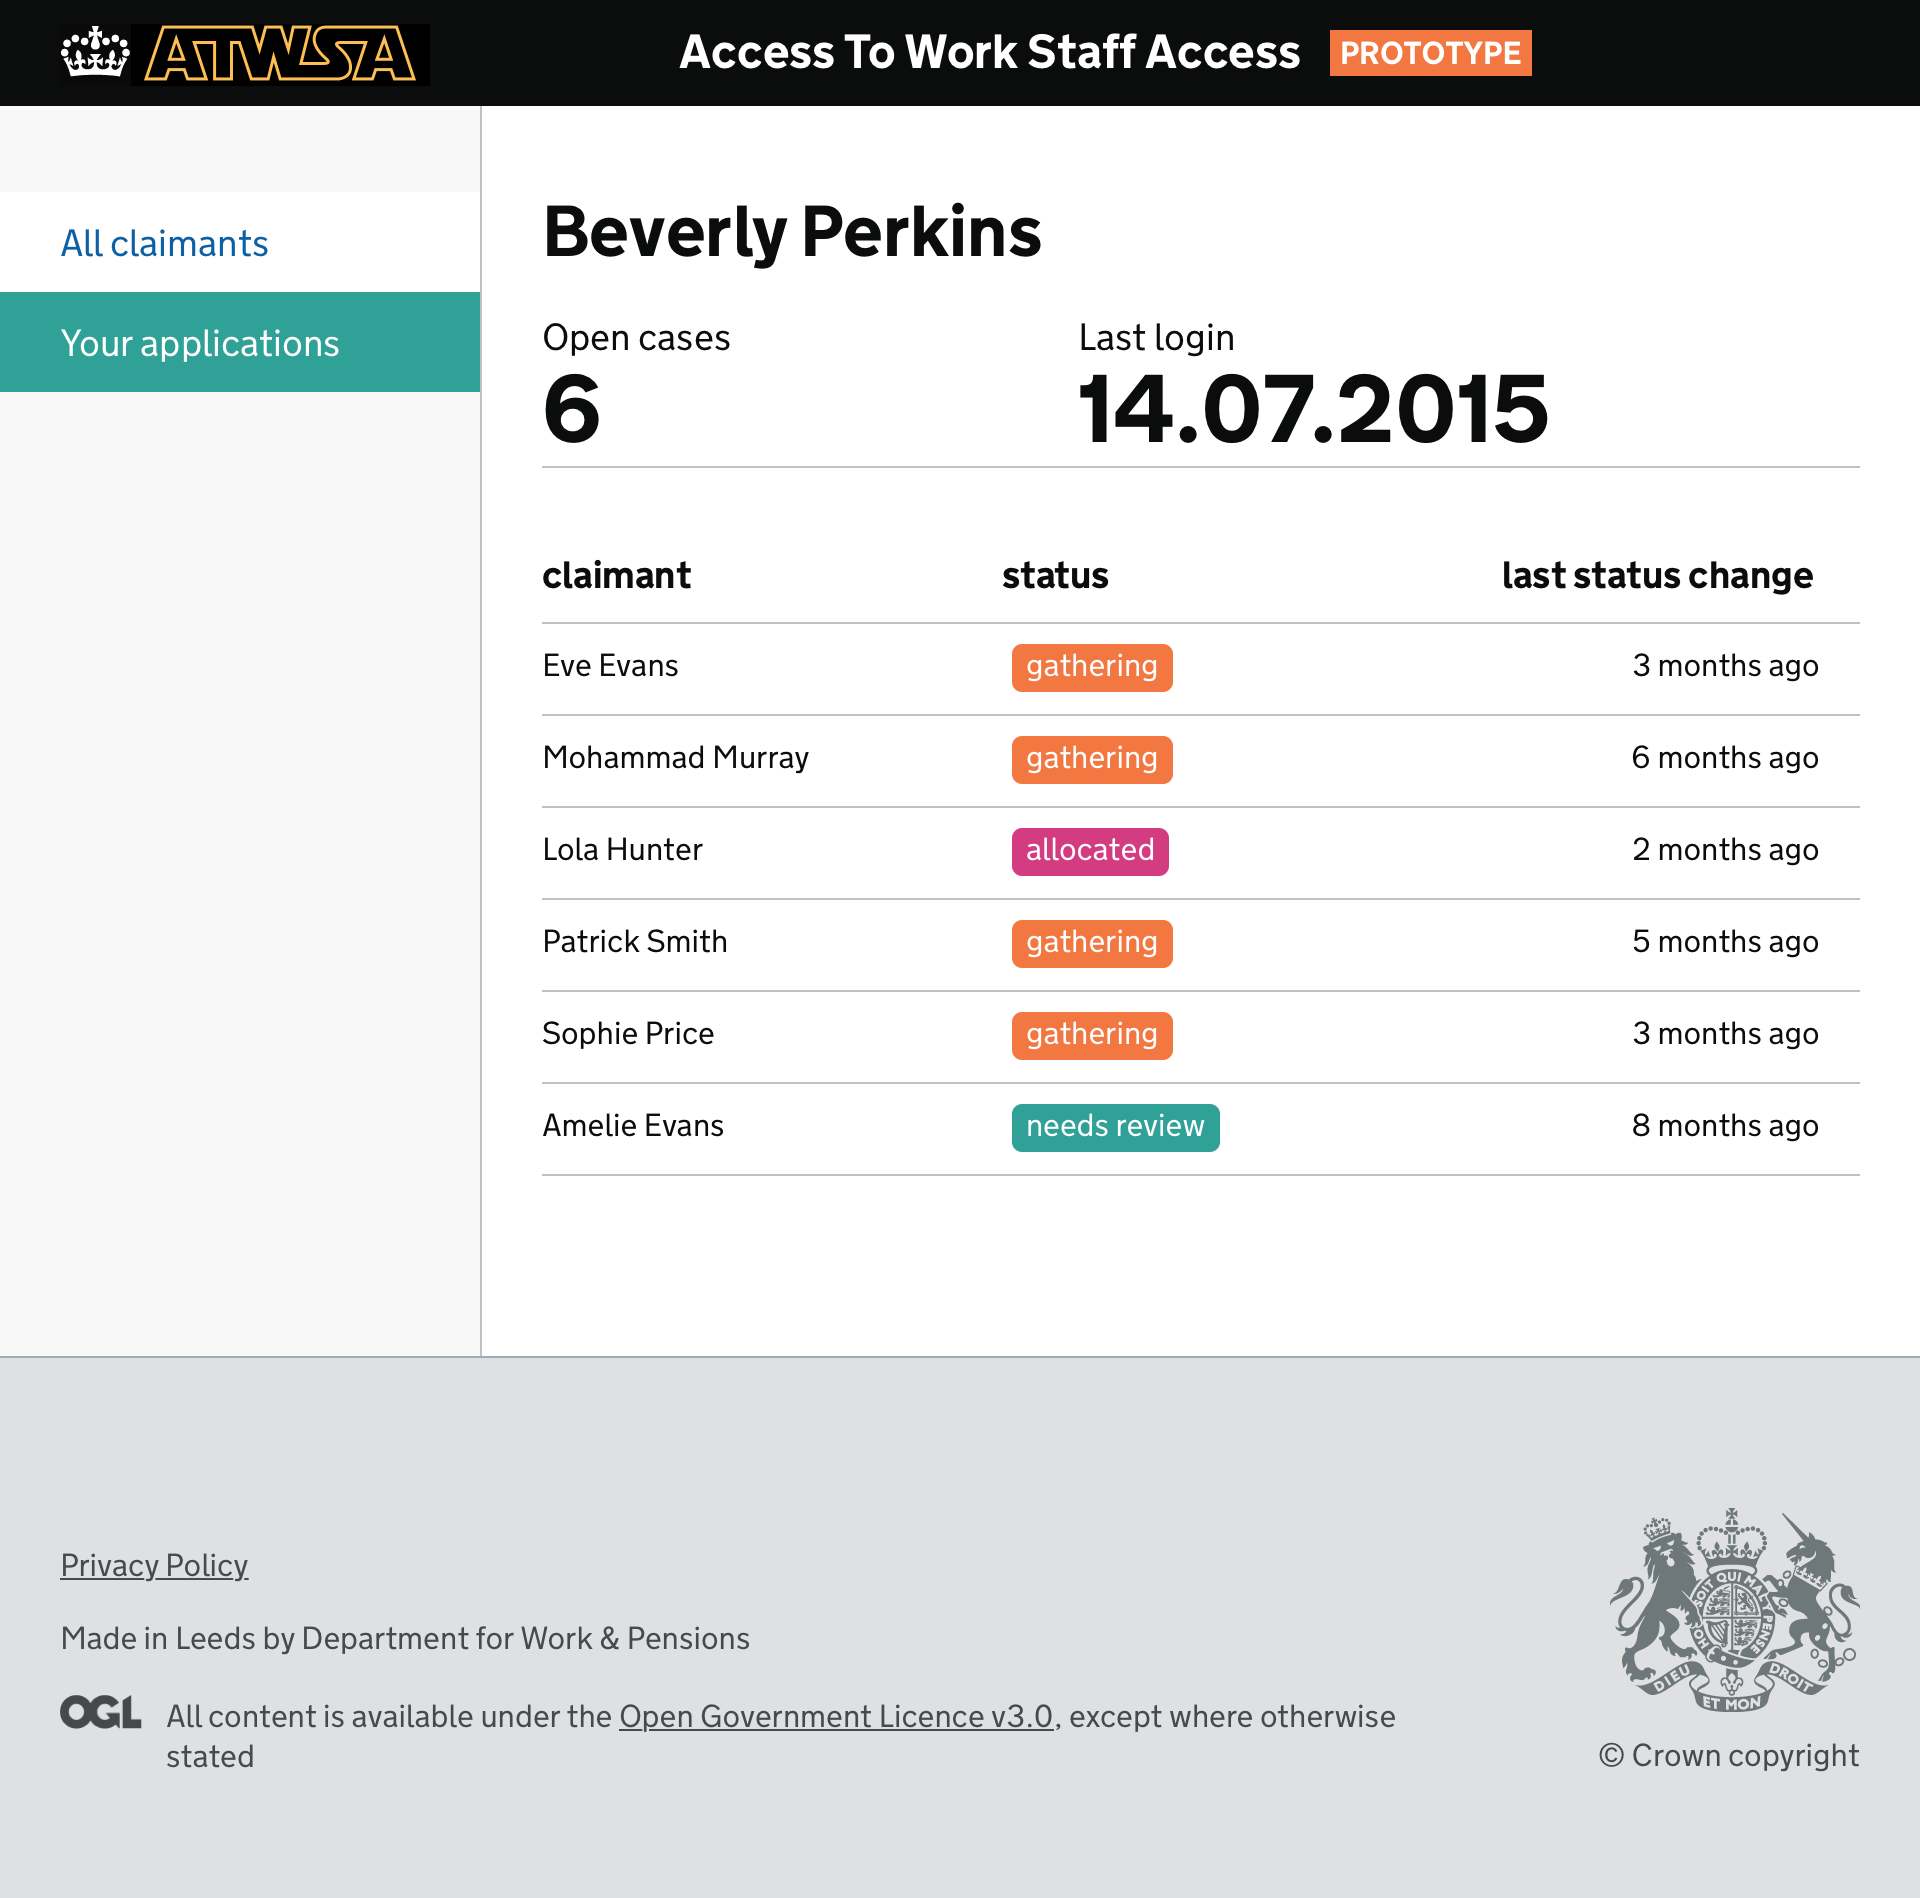
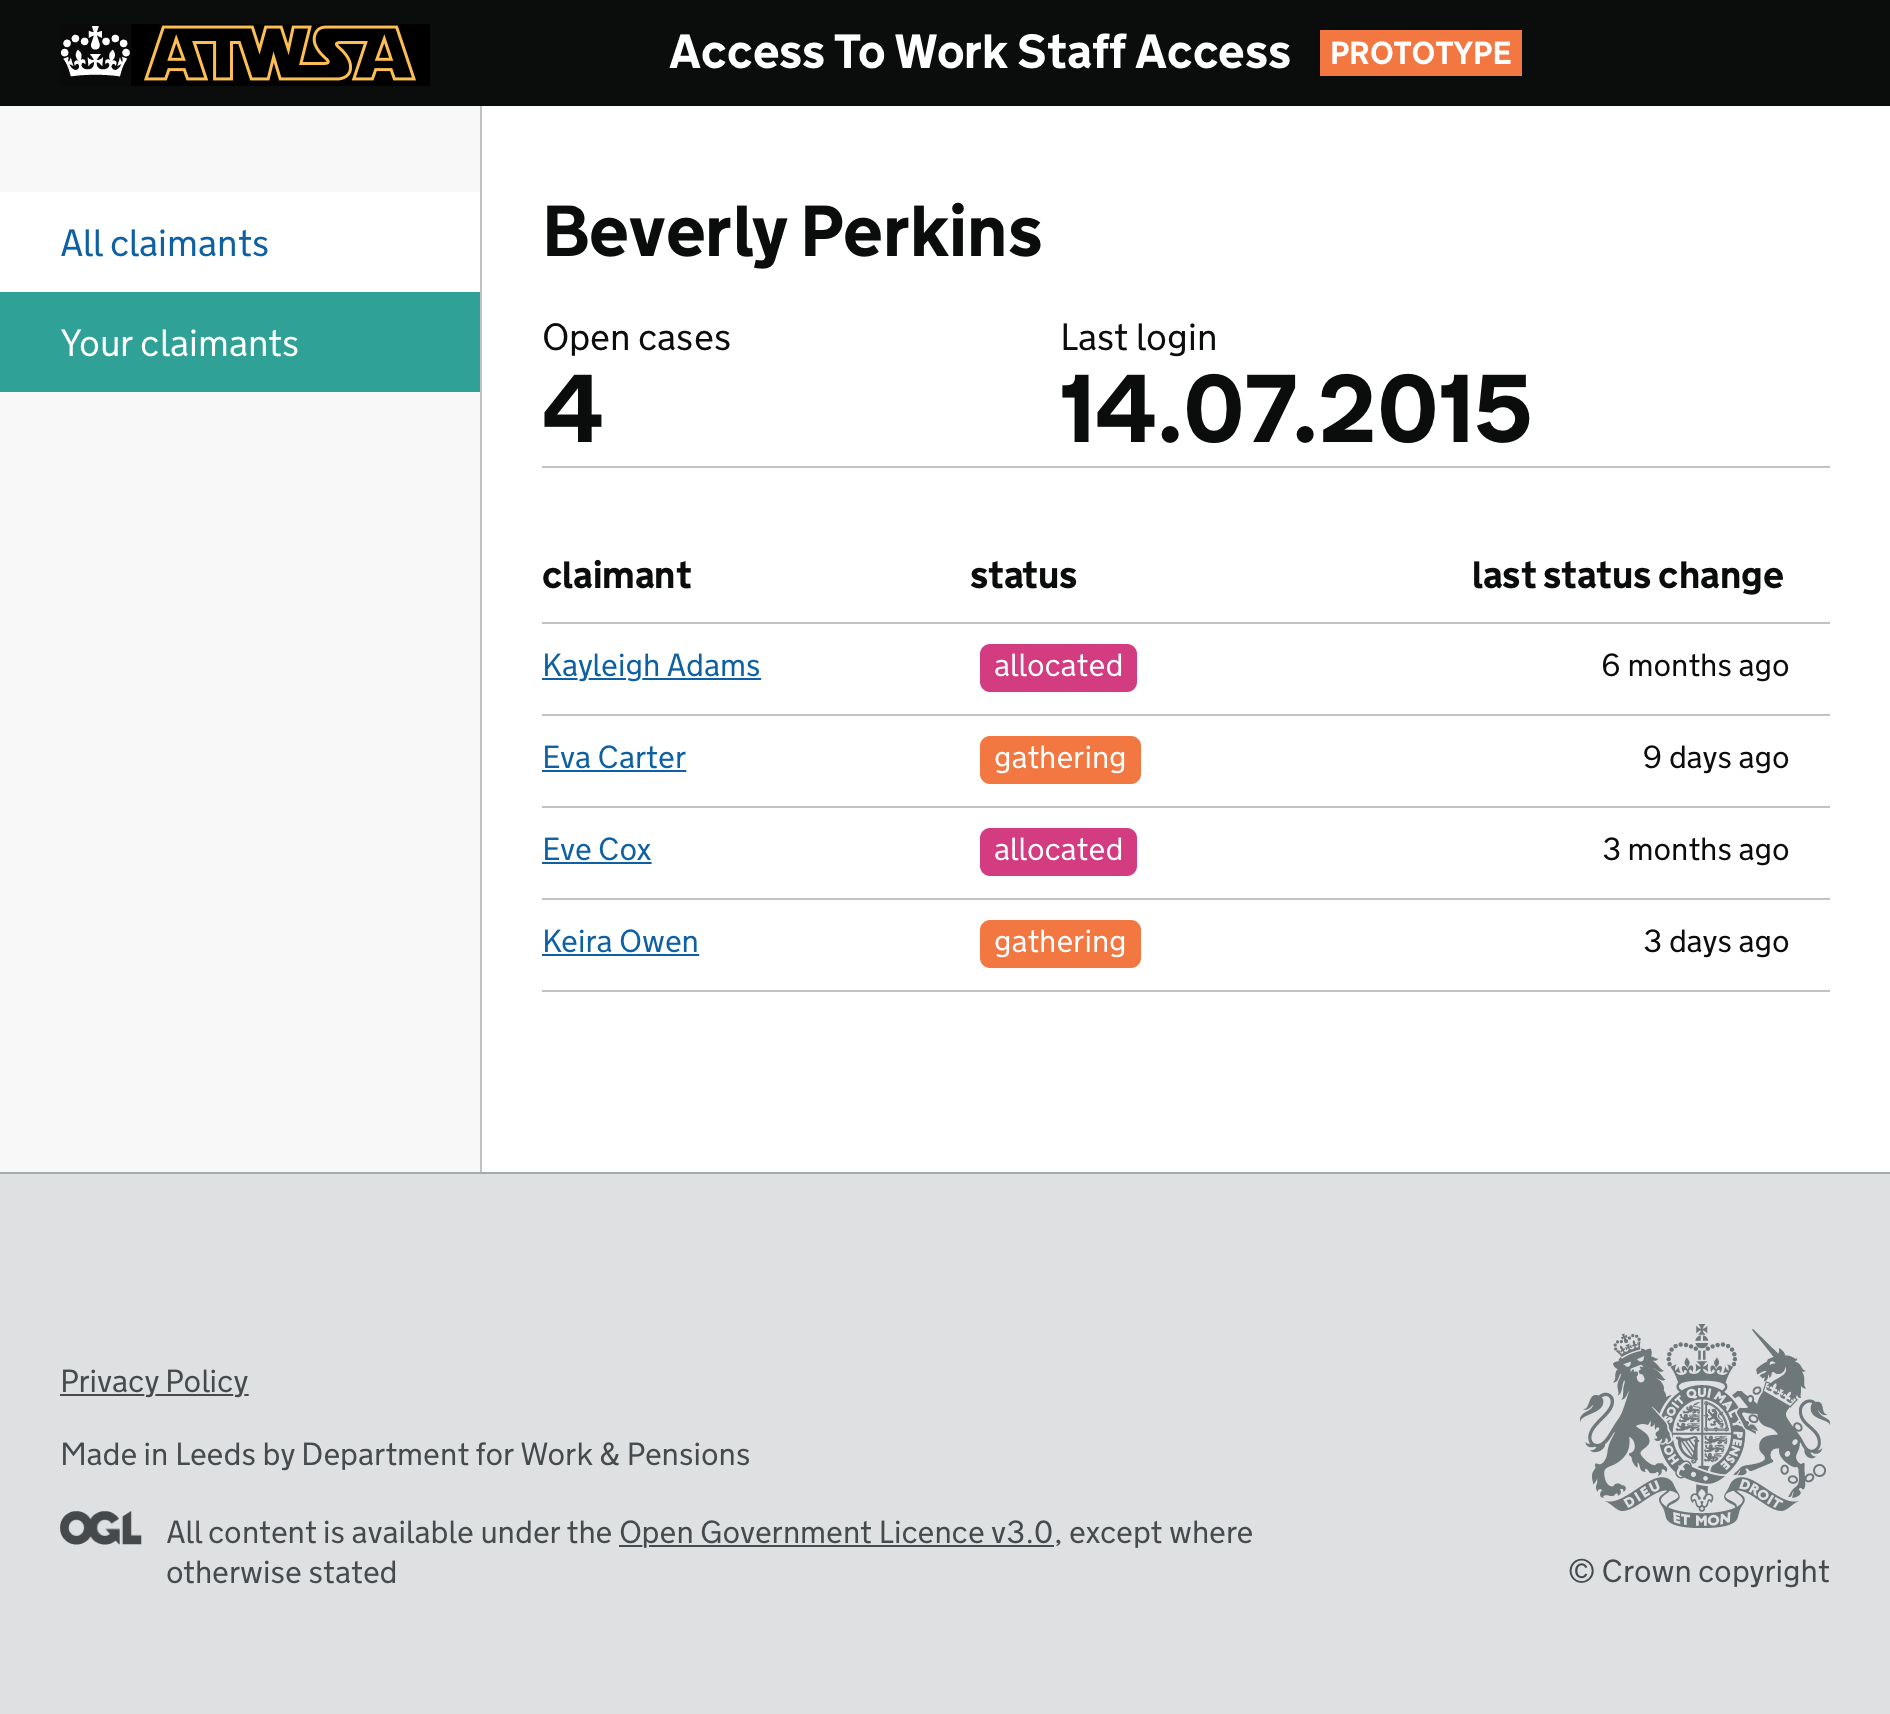
Continued working on the claim pages for staff access.

diff --git a/app/views/staffui/routes.js b/app/views/staffui/routes.js
@@ -10,11 +10,11 @@ router.get('/staffui/all/:order?', function(req,res,next)
   if (order == 'status') order = 'statusIndex';
   else order = 'timet';
 
-  json = JSON.parse(fs.readFileSync(__dirname + "/customers.json").toString());
+  json = JSON.parse(fs.readFileSync(__dirname + "/claimants.json").toString());
 
-  req.data.customers  = _.sortBy(json,order);
+  req.data.claimants  = _.sortBy(json,order);
 
-  if (order == 'timet') req.data.customers.reverse();
+  if (order == 'timet') req.data.claimants.reverse();
 
   req.data.counts     = _.countBy(json,"status");
   req.url = '/staffui/all/';
@@ -26,54 +26,33 @@ router.get('/staffui/adviser/:id?', function(req,res,next)
   var id = req.params.id;
   if (typeof id == "undefined") id = 0;
   
-  json = JSON.parse(fs.readFileSync(__dirname + "/customers.json").toString());
+  json = JSON.parse(fs.readFileSync(__dirname + "/claimants.json").toString());
   var data = _.filter(json, function(el)
   {
     return el.adviser.id == id;
   });
-  req.data.customers = data;
+  req.data.claimants = data;
   req.url = '/staffui/adviser/';
   next();
 });
 
-router.get('/staffui/api/people', function(req,res)
-{  
-  var advisers = JSON.parse(fs.readFileSync(__dirname + "/advisers.json").toString());
-  var people = JSON.parse(fs.readFileSync(__dirname + "/raw-customers.json").toString());
-  var stati = ['just in','allocated','gathering','waiting','support agreed','needs review'];
-  var waiting = ['med ev','quotes','employer','extra info','assessment','offer sent'];  
-  var person = _.sample(people), output = '';
-  _.each(people,function(el,i,array)
-  {
-    var now = moment();
-    var status = _.sample(stati);
-    // set status
-    el.status = status;
-    // set sortable status
-    el.statusIndex = _.indexOf(stati,status);
-    // if they're waiting - what for?
-    el.status = (status == 'waiting') ? 'waiting: '+_.sample(waiting) : status;
-    // if it's assigned - who to?
-    el.adviser = (status != 'just in') ? _.sample(advisers) : 'none';
-    // when was the status last changed.
-    var r = Math.ceil(Math.random()*100)
-    el.timet = now.subtract(r,'day').format("x"); 
-    el.lastUpdated = now.subtract(r,'day').format("dddd, MMMM Do YYYY, h:mm:ss a"); 
-    el.fromNow = now.subtract(r,'day').fromNow(); 
-  });  
-  res.end(JSON.stringify(people));
-});
+router.get('/staffui/claimant/:id?/:page?/', function(req,res,next)
+{
+  var id = req.params.id;
+  if (typeof id == "undefined") id = 0;
 
-router.get('/staffui/api/advisers', function(req,res)
-{  
-  var advisers = JSON.parse(fs.readFileSync(__dirname + "/advisers.json").toString());
-  _.each(advisers,function(el,i,array)
+  var page = req.params.page;
+  if (typeof page == "undefined") page = 'timeline';
+  
+  json = JSON.parse(fs.readFileSync(__dirname + "/claimants.json").toString());
+  var data = _.filter(json, function(el)
   {
-    el.id = i;
-    delete el.region;
-    delete el.gender;
+    return el.id == id;
   });
-  res.end(JSON.stringify(advisers));
+  req.data.claimant = data[0];
+  req.data.thispage = page;
+  req.url = '/staffui/claimant_'+page;
+  next();
 });
 
 module.exports = router;

diff --git a/app/assets/sass/staffui.scss b/app/assets/sass/staffui.scss
@@ -194,3 +194,121 @@ td.last {
   &.waiting_quotes,
     {background-color:$error-colour}
 }
+
+/* Tabs */
+.nav {
+  margin-bottom: 0;
+  padding-left: 0; // Override default ul/ol
+  list-style: none;
+
+  > li {
+    position: relative;
+    display: block;
+
+    > a {
+      position: relative;
+      display: block;
+      padding: 15px;
+      &:hover,
+      &:focus {
+        text-decoration: none;
+        background-color: $grey-3;
+      }
+    }
+
+    // Disabled state sets text to gray and nukes hover/tab effects
+    &.disabled > a {
+      color: $grey-1;
+      pointer-events:none;
+      text-decoration: none;      
+    }
+  }
+}
+
+// Tabs
+// -------------------------
+
+// Give the tabs something to sit on
+$tab-border: $grey-2;
+
+.nav-tabs {
+  border-bottom: 1px solid $tab-border;
+  > li {
+    float: left;
+    // Make the list-items overlay the bottom border
+    // margin-bottom: -1px;
+
+    // Actual tabs (as links)
+    > a {
+      margin-right: 2px;
+      line-height: 1em;
+      border: 1px solid transparent;
+    }
+
+    // Active state, and its :hover to override normal :hover
+    &.active > a {
+      &,
+      &:hover,
+      &:focus {
+        color: $text-colour;
+        background-color: white;
+        border: none;
+        border-bottom: 5px solid $turquoise;
+        pointer-events:none;
+        text-decoration:none;
+      }
+    }
+  }
+    // pulling this in mainly for less shorthand
+  &.nav-justified {
+    @extends .nav-justified;
+    @extends .nav-tabs-justified;
+  }
+}
+
+.nav-justified {
+  width: 100%;
+
+  > li {
+    float: none;
+    > a {
+      text-align: center;
+      margin-bottom: 5px;
+    }
+  }
+
+  > .dropdown .dropdown-menu {
+    top: auto;
+    left: auto;
+  }
+
+  @media (min-width: 640) {
+    > li {
+      display: table-cell;
+      width: 1%;
+      > a {
+        margin-bottom: 0;
+      }
+    }
+  }
+}
+
+// Move borders to anchors instead of bottom of list
+//
+// Mixin for adding on top the shared `.nav-justified` styles for our tabs
+.nav-tabs-justified {
+  border-bottom: 0;
+
+  > li > a {
+    // Override margin from .nav-tabs
+    margin-right: 0;
+    // border-radius: 5px;
+  }
+}
+
+/* ====== media ====== */
+.media {margin:10px;}
+.media, .bd {overflow:hidden; _overflow:visible; zoom:1;}
+.media .img {float:left; margin-right: 10px;}
+.media .img img{display:block;}
+.media .imgExt{float:right; margin-left: 10px;}

diff --git a/app/views/staffui/create_claimants.js b/app/views/staffui/create_claimants.js
@@ -1,0 +1,33 @@
+var fs      = require('fs'),
+    _       = require('underscore'),
+    moment  = require('moment');
+
+// load the advisor data
+var advisers = JSON.parse(fs.readFileSync(__dirname + "/advisers.json").toString());
+// load the raw claimant data (from uinames.com)
+var people = JSON.parse(fs.readFileSync(__dirname + "/raw-claimants.json").toString());
+var stati = ['just in','allocated','gathering','waiting','support agreed','needs review'];
+var waiting = ['med ev','quotes','employer','extra info','assessment','offer sent'];  
+var person = _.sample(people), output = '';
+
+_.each(people,function(el,i,array)
+{
+  var now = moment();
+  var status = _.sample(stati);
+  el.id = i;
+  // set status
+  el.status = status;
+  // set sortable status
+  el.statusIndex = _.indexOf(stati,status);
+  // if they're waiting - what for?
+  el.status = (status == 'waiting') ? 'waiting: '+_.sample(waiting) : status;
+  // if it's assigned - who to?
+  el.adviser = (status != 'just in') ? _.sample(advisers) : 'none';
+  // when was the status last changed.
+  var r = Math.ceil(Math.random()*100)
+  el.timet = now.subtract(r,'day').format("x"); 
+  el.lastUpdated = now.subtract(r,'day').format("dddd, MMMM Do YYYY, h:mm:ss a"); 
+  el.fromNow = now.subtract(r,'day').fromNow(); 
+});  
+
+fs.writeFileSync(__dirname + "/claimants.json", JSON.stringify(people));

diff --git a/app/views/staffui/adviser.html b/app/views/staffui/adviser.html
@@ -14,17 +14,17 @@
 		<div class="staff-nav-links">
 			<ol>
 				<li><a href="/staffui/all">All claimants</a></li>
-				<li><a href="/staffui/all/0" class="selected">Your applications</a></li>
+				<li><a href="/staffui/all/0" class="selected">Your claimants</a></li>
 			</ol>
 		</div>
 	</section>
 
 	<section class="staff-main">				
 	
-		<h1 class="heading-large">{{ customers[0].adviser.name }} {{ customers[0].adviser.surname }}</h1>
+		<h1 class="heading-large">{{ claimants[0].adviser.name }} {{ claimants[0].adviser.surname }}</h1>
 
 		<ol class="stats">						
-			<li> <p class="stat-label">Open cases</p><h2 class="stat-num heading-xlarge">{{ customers | length }}</h2> </li>
+			<li> <p class="stat-label">Open cases</p><h2 class="stat-num heading-xlarge">{{ claimants | length }}</h2> </li>
 			<li> <p class="stat-label">Last login</p><h2 class="stat-num heading-xlarge">14.07.2015</h2> </li>
 		</ol>
 
@@ -38,9 +38,9 @@
 				</tr>
 			</thead>
 			<tbody class="app-list">
-			{% for item in customers %}
+			{% for item in claimants %}
 				<tr>
-					<td>{{ item.name }} {{ item.surname }}</td>
+					<td><a href="/staffui/claimant/{{ item.id }}">{{ item.name }} {{ item.surname }}</a></td>
 					<td>
 						<span class="tag {{ item.status | slugify }}">{{ item.status }}</span>
 					</td>

diff --git a/app/views/staffui/claimant.html b/app/views/staffui/claimant.html
@@ -1,0 +1,39 @@
+{% extends "staffui/layout.html" %}
+
+{% block pageTitle %}
+	Access To Work - Prototype
+{% endblock %}
+
+{% block content %}
+
+<main id="content" role="main">
+
+<div class="staff-container">
+
+	<section class="staff-nav">
+		<div class="staff-nav-links">
+			<ol>
+				<li><a href="/staffui/all">All claimants</a></li>
+				<li><a href="/staffui/adviser">Your claimants</a></li>				
+			</ol>
+		</div>
+	</section>
+
+	<section class="staff-main">				
+	
+		<h1 class="heading-large">{{ claimant.name }} {{ claimant.surname }}</h1>
+
+		<ul class="nav nav-tabs clearfix">
+		  <li class="{{ thispage | check("timeline","active") }}"><a href="/staffui/claimant/{{ claimant.id }}/timeline">Timeline</a></li>
+		  <li class="{{ thispage | check("personal","active") }}"><a href="/staffui/claimant/{{ claimant.id }}/personal">Personal</a></li>
+		  <li class="{{ thispage | check("jobs","active") }}"><a href="/staffui/claimant/{{ claimant.id }}/jobs">Jobs</a></li>
+		  <li class="{{ thispage | check("elements","active") }}"><a href="/staffui/claimant/{{ claimant.id }}/elements">Elements</a></li>
+		</ul>
+
+		{% block c_content %}{% endblock %}
+
+	</section>
+
+</main>
+
+{% endblock %}

diff --git a/app/views/staffui/all.html b/app/views/staffui/all.html
@@ -14,7 +14,7 @@
 		<div class="staff-nav-links">
 			<ol>
 				<li><a href="/staffui/all" class="selected">All claimants</a></li>
-				<li><a href="/staffui/adviser/0">Your applications</a></li>
+				<li><a href="/staffui/adviser/0">Your claimants</a></li>
 			</ol>
 		</div>
 	</section>
@@ -41,9 +41,9 @@
 				</tr>
 			</thead>
 			<tbody class="app-list">
-			{% for item in customers %}
+			{% for item in claimants %}
 				<tr>
-					<td>{{ item.name }} {{ item.surname }}</td>
+					<td><a href="/staffui/claimant/{{ item.id }}/">{{ item.name }} {{ item.surname }}</a></td>
 					<td>
 						<span class="tag {{ item.status | slugify }}">{{ item.status }}</span>
 					</td>

diff --git a/app/views/staffui/create_advisers.js b/app/views/staffui/create_advisers.js
@@ -1,0 +1,13 @@
+var fs      = require('fs'),
+    _       = require('underscore'),
+
+var advisers = JSON.parse(fs.readFileSync(__dirname + "/advisers.json").toString());
+
+_.each(advisers,function(el,i,array)
+{
+  el.id = i;
+  delete el.region;
+  delete el.gender;
+});
+
+fs.writeFileSync(__dirname + "/advisers.json", JSON.stringify(advisers));

diff --git a/server.js b/server.js
@@ -47,6 +47,9 @@ nunjucks.setup({
   env.addFilter('slugify', function(str) {
       return str.replace(/[.,-\/#!$%\^&\*;:{}=\-_`~()’]/g,"").replace(/ +/g,'_').toLowerCase();
   });
+  env.addFilter('check', function(str,checkee,output) {
+      return str == checkee ? output : '';
+  });
 });
 
 

diff --git a/app/views/staffui/claimant_elements.html b/app/views/staffui/claimant_elements.html
@@ -1,0 +1,7 @@
+{% extends "staffui/claimant.html" %}
+
+{% block c_content %}
+
+<h2 class="heading-medium">blah</h2>
+
+{% endblock %}

diff --git a/app/views/staffui/claimant_jobs.html b/app/views/staffui/claimant_jobs.html
@@ -1,0 +1,7 @@
+{% extends "staffui/claimant.html" %}
+
+{% block c_content %}
+
+<h2 class="heading-medium">blah</h2>
+
+{% endblock %}

diff --git a/app/views/staffui/claimant_personal.html b/app/views/staffui/claimant_personal.html
@@ -1,0 +1,7 @@
+{% extends "staffui/claimant.html" %}
+
+{% block c_content %}
+
+<h2 class="heading-medium">blah</h2>
+
+{% endblock %}

diff --git a/app/views/staffui/claimant_timeline.html b/app/views/staffui/claimant_timeline.html
@@ -1,0 +1,7 @@
+{% extends "staffui/claimant.html" %}
+
+{% block c_content %}
+
+<h2 class="heading-medium">blah</h2>
+
+{% endblock %}
